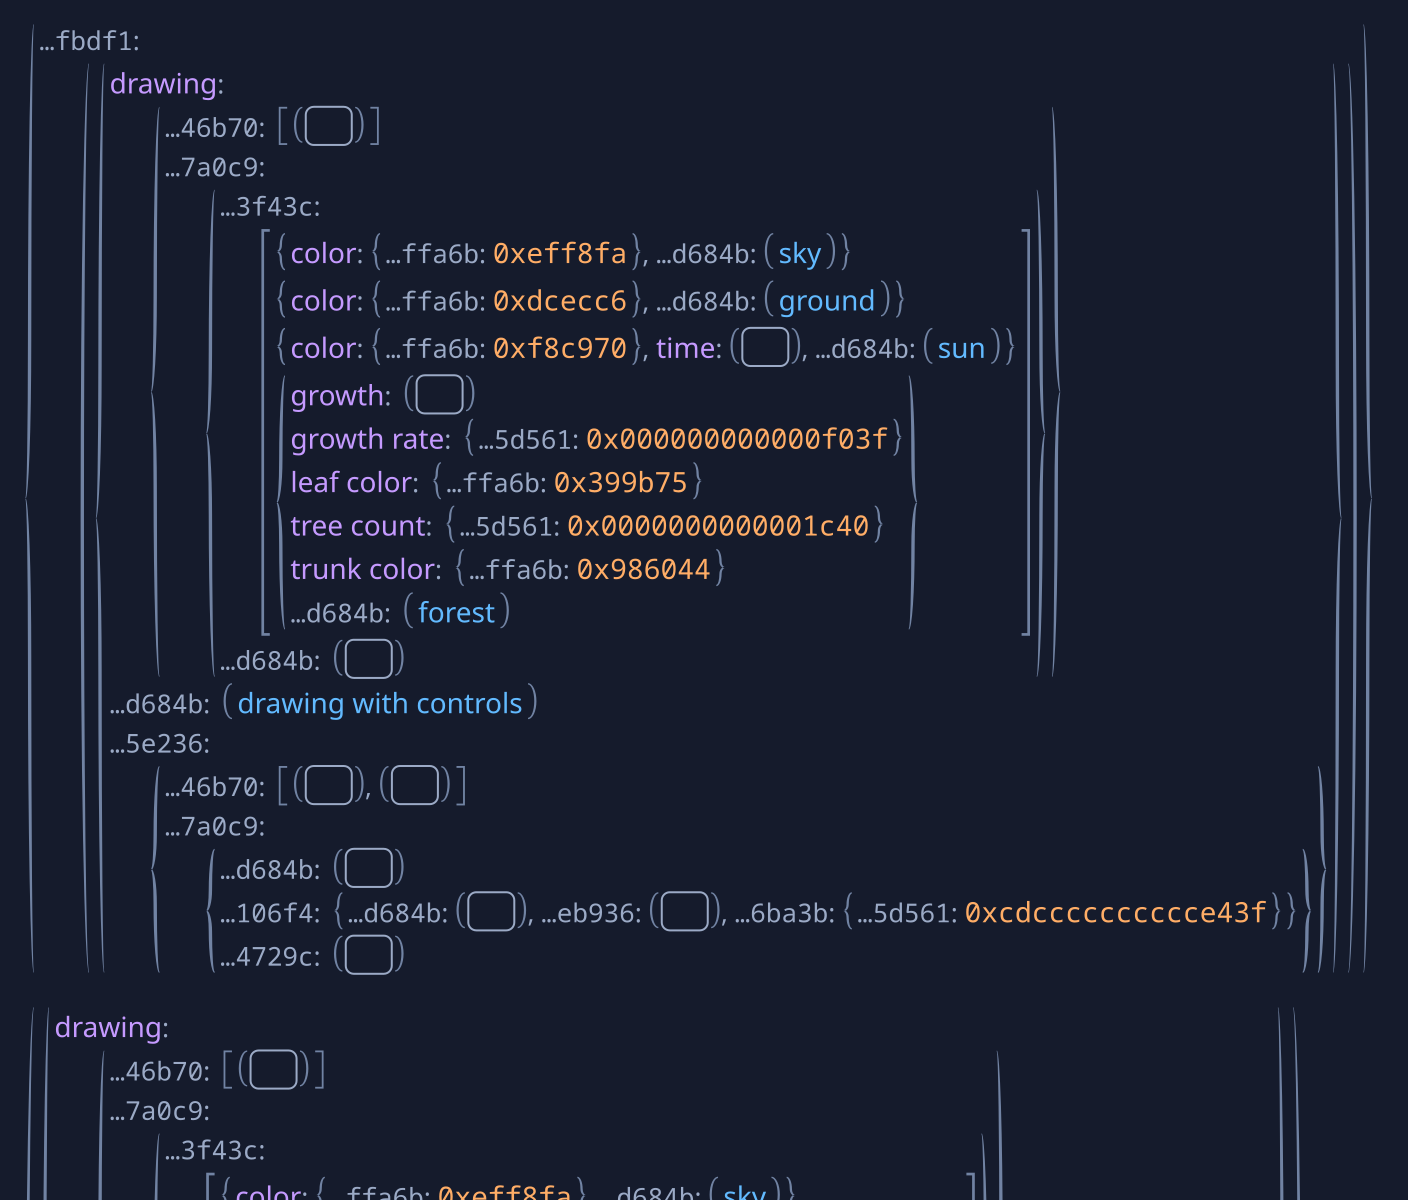
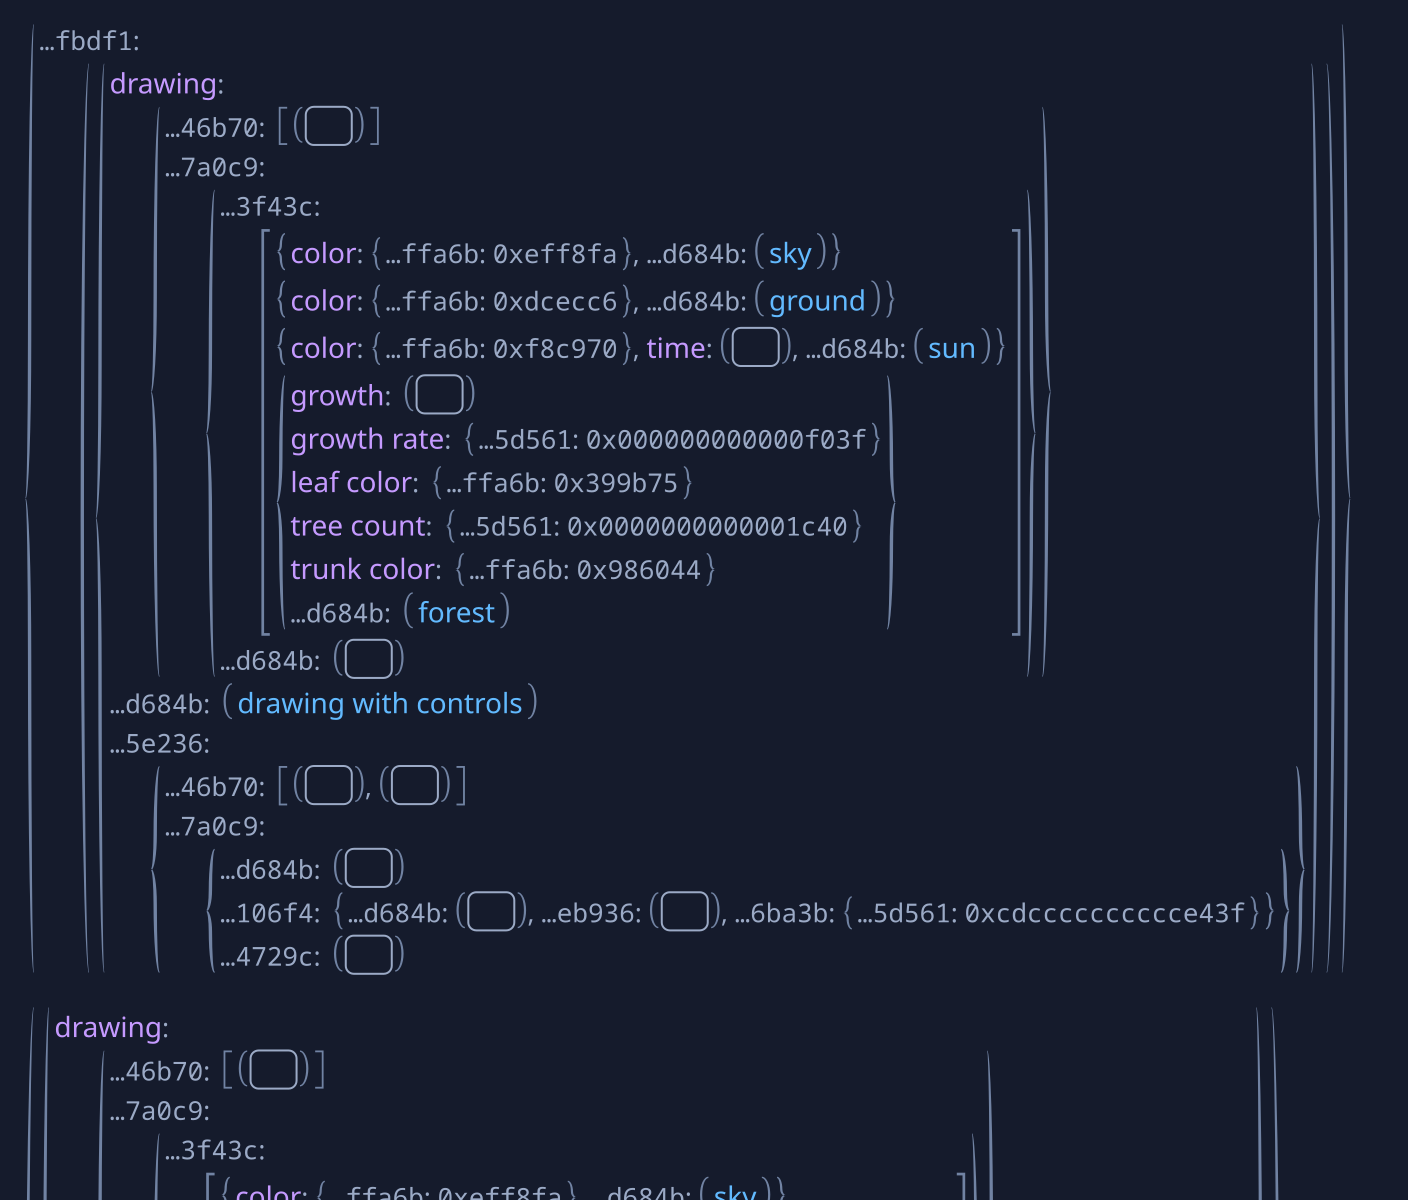
Load only the nine libraries the forest uses
Rendering the forest without each of its fifteen libraries changed
nothing for name, text, blob, number, list, or logic, so the home page
and Peel the forest now load absent, color, control, f64, grap, layout,
presentation, sequence, and controls, and their captions name just those.
Peeling every layer leaves no libraries at all, which the structure still
now shows too. Teach the editor to see no longer adds list and logic.

diff --git a/website/public/index.html b/website/public/index.html
@@ -79,7 +79,7 @@
         <h2 id="peel-title">Take a program apart</h2>
         <p>This forest is a program. Drag its slider to grow it, or hold <kbd data-command-key>Ctrl</kbd> and click a tree to find the code that drew it. Then switch the libraries off, one layer at a time, until you’re looking at what’s stored.</p>
         <div class="live">
-          <div class="editor-example" id="peel-editor"><iframe data-src="./editor/?document=../lessons/growing-forest.gid&amp;menu=hidden&amp;wheel=auto&amp;threads=1&amp;tutorial-slots=f717b766d250a7b86c5eb842885c4417,9940ece27410c72a5308a544890ccc71&amp;libraries=3209ad5d23a0c8513f6bd76324a5cf60,eaaf309c36a65d2811083944da29aec9,4ab5da466a7c5f1202f5ef862f5ff915,873c68ac371dbbb98a4f198546d60241,25d0e2034b4bd65bebb4811d65eab89c,ec17915df2d42377574dc90f22500fe2,c46d010325d3a1ec0f2a84dd3a9570ae,1fdb573a2c56a7063546c195318214bc,f7735b90f6826b25c350a8fd83af8c47,fb2a4dac87512d69448650bc0e29dc80,d22b834154d60b1df228f9bb4d3c13de,7b0fa421250c1b5c8a78a3a95b172cb6,f76a2ef341541a5c955fc23094e2df52,0ad8124ba821acd5fbf2c868371e1492,666ba40b81028e32c78bdc1665d6c3a9" title="The growing forest, drawn by libraries you can switch off" loading="lazy"></iframe><div class="editor-actions"><button type="button" class="reset" aria-label="Reset the forest">Reset <span aria-hidden="true">↺</span></button></div><span class="reset-status visually-hidden" role="status"></span></div>
+          <div class="editor-example" id="peel-editor"><iframe data-src="./editor/?document=../lessons/growing-forest.gid&amp;menu=hidden&amp;wheel=auto&amp;threads=1&amp;tutorial-slots=f717b766d250a7b86c5eb842885c4417,9940ece27410c72a5308a544890ccc71&amp;libraries=873c68ac371dbbb98a4f198546d60241,25d0e2034b4bd65bebb4811d65eab89c,ec17915df2d42377574dc90f22500fe2,1fdb573a2c56a7063546c195318214bc,f7735b90f6826b25c350a8fd83af8c47,fb2a4dac87512d69448650bc0e29dc80,d22b834154d60b1df228f9bb4d3c13de,0ad8124ba821acd5fbf2c868371e1492,666ba40b81028e32c78bdc1665d6c3a9" title="The growing forest, drawn by libraries you can switch off" loading="lazy"></iframe><div class="editor-actions"><button type="button" class="reset" aria-label="Reset the forest">Reset <span aria-hidden="true">↺</span></button></div><span class="reset-status visually-hidden" role="status"></span></div>
           <div class="peel-controls"><label class="peel-slider">Peel <input type="range" id="peel-depth" min="0" value="0" step="1"></label><div id="peel-layers" class="peel-layers"></div></div>
           <p id="peel-caption" class="peel-caption" aria-live="polite"></p>
         </div>
@@ -95,14 +95,14 @@
         </script>
         <div class="still" role="group" aria-label="The forest and its stored structure">
           <figure>
-            <img class="light-only" src="images/forest-light.png" alt="The forest and its slider, drawn with fifteen libraries, above the start of its program." width="704" height="600" />
-            <img class="dark-only" src="images/forest-dark.png" alt="The forest and its slider, drawn with fifteen libraries, above the start of its program." width="704" height="600" />
-            <figcaption>Drawn with the name, text, blob, absent, color, control, number, f64, grap, layout, presentation, list, logic, sequence, and controls libraries.</figcaption>
+            <img class="light-only" src="images/forest-light.png" alt="The forest and its slider, drawn with nine libraries, above the start of its program." width="704" height="600" />
+            <img class="dark-only" src="images/forest-dark.png" alt="The forest and its slider, drawn with nine libraries, above the start of its program." width="704" height="600" />
+            <figcaption>Drawn with the absent, color, control, f64, grap, layout, presentation, sequence, and controls libraries.</figcaption>
           </figure>
           <figure>
-            <img class="light-only" src="images/structure-light.png" alt="The same document with the libraries off: records, lists, bytes, and cells, with names only where the document defines them." width="704" height="600" />
-            <img class="dark-only" src="images/structure-dark.png" alt="The same document with the libraries off: records, lists, bytes, and cells, with names only where the document defines them." width="704" height="600" />
-            <figcaption>The same document with only the name, text, and blob libraries. On a laptop, this is a live editor you can take apart yourself.</figcaption>
+            <img class="light-only" src="images/structure-light.png" alt="The same document with no libraries: records, lists, bytes, and cells, with names only where the document defines them." width="704" height="600" />
+            <img class="dark-only" src="images/structure-dark.png" alt="The same document with no libraries: records, lists, bytes, and cells, with names only where the document defines them." width="704" height="600" />
+            <figcaption>The same document with no libraries loaded. On a laptop, this is a live editor you can take apart yourself.</figcaption>
           </figure>
         </div>
       </section>

diff --git a/website/public/peel.js b/website/public/peel.js
@@ -18,22 +18,20 @@ const layers = [
   {
     id: "calculations",
     label: "Calculations",
-    names: "grap, control, list, sequence, logic, absent",
-    libraries: ["f7735b90f6826b25c350a8fd83af8c47", "ec17915df2d42377574dc90f22500fe2", "7b0fa421250c1b5c8a78a3a95b172cb6", "0ad8124ba821acd5fbf2c868371e1492", "f76a2ef341541a5c955fc23094e2df52", "873c68ac371dbbb98a4f198546d60241"],
+    names: "grap, control, sequence, absent",
+    libraries: ["f7735b90f6826b25c350a8fd83af8c47", "ec17915df2d42377574dc90f22500fe2", "0ad8124ba821acd5fbf2c868371e1492", "873c68ac371dbbb98a4f198546d60241"],
     off: "Grap, the language, is a library. Without it, the editor doesn't know that a record with a <code>function</code> key is a call, or that a record with <code>params</code> and a <code>body</code> is a function. Everything is still here, as plain records. Names in parentheses, like <code>(forest)</code>, are functions this document defines; short codes like <code>…d684b</code> are keys owned by libraries that aren't loaded anymore, such as Grap's own <code>function</code> key.",
   },
   {
     id: "numbers",
     label: "Numbers",
-    names: "number, f64",
-    libraries: ["c46d010325d3a1ec0f2a84dd3a9570ae", "1fdb573a2c56a7063546c195318214bc"],
+    names: "f64",
+    libraries: ["1fdb573a2c56a7063546c195318214bc"],
     off: "Numbers were the f64 library reading eight bytes under its key. The little <strong>f64</strong> was its signature; without it, <code>7<sub class=\"tag\">f64</sub></code> is <code>{…5d561: 0x0000000000001c40}</code>, the eight bytes of 7.0, least significant first.",
   },
 ];
-// Libraries this page never peels: names, text, and hex editing.
-const base = ["3209ad5d23a0c8513f6bd76324a5cf60", "eaaf309c36a65d2811083944da29aec9", "4ab5da466a7c5f1202f5ef862f5ff915"];
 
-const allOn = (count) => `All ${count} of this editor's libraries are on: name, text, and blob, which always stay on, plus the layers above. Each mark on the screen, from the trees to the little <strong>f64</strong> tags, is drawn by one of them. Move the slider, or switch layers off one at a time.`;
+const allOn = (count) => `All ${count} of this editor's libraries are on, grouped into the layers above. Each mark on the screen, from the trees to the little <strong>f64</strong> tags, is drawn by one of them. Move the slider, or switch layers off one at a time.`;
 const allOff = "This is what's actually stored: records <code>{ }</code>, lists <code>[ ]</code>, bytes <code>0x…</code>, and cells <code>( )</code>, plus the names this document gave its own cells. Every library you switched off only changed how it's drawn. Switch them back on, in any order.";
 
 const editor = document.querySelector("#peel-editor iframe");
@@ -67,7 +65,7 @@ slider.addEventListener("input", () => {
 
 function apply(changed) {
   const on = layers.filter((layer) => boxes.get(layer.id).checked);
-  const enabled = new Set([...base, ...on.flatMap((layer) => layer.libraries)]);
+  const enabled = new Set(on.flatMap((layer) => layer.libraries));
   const libraries = order.filter((id) => enabled.has(id));
   editor.contentWindow?.postMessage({ type: "progred:libraries", libraries: libraries.join(",") }, location.origin);
   // The slider follows the checkboxes when they peel in order.

diff --git a/website/public/lab/see.html b/website/public/lab/see.html
@@ -92,8 +92,8 @@
 <p class="aside"><strong>Try:</strong> hold <kbd data-command-key>Ctrl</kbd> and click a tree. You land in the code that drew it.</p>
 </section>
 <section class="exercise" id="see-controls" aria-labelledby="see-controls-title"><h2 id="see-controls-title">Lesson 7: controls</h2>
-<p>A few more libraries (lists, sequences, logic, presentation, and controls) and the editor can see the whole forest: a slider feeding a program that plants and grows trees. Same four kinds of value underneath.</p>
-<div class="editor-example"><iframe src="../editor/?document=../lessons/growing-forest.gid&amp;menu=hidden&amp;wheel=auto&amp;threads=1&amp;tutorial-slots=f717b766d250a7b86c5eb842885c4417,9940ece27410c72a5308a544890ccc71&amp;libraries=3209ad5d23a0c8513f6bd76324a5cf60,eaaf309c36a65d2811083944da29aec9,4ab5da466a7c5f1202f5ef862f5ff915,873c68ac371dbbb98a4f198546d60241,25d0e2034b4bd65bebb4811d65eab89c,ec17915df2d42377574dc90f22500fe2,c46d010325d3a1ec0f2a84dd3a9570ae,1fdb573a2c56a7063546c195318214bc,f7735b90f6826b25c350a8fd83af8c47,fb2a4dac87512d69448650bc0e29dc80,d22b834154d60b1df228f9bb4d3c13de,7b0fa421250c1b5c8a78a3a95b172cb6,f76a2ef341541a5c955fc23094e2df52,0ad8124ba821acd5fbf2c868371e1492,666ba40b81028e32c78bdc1665d6c3a9" title="The growing forest with fifteen libraries loaded" loading="lazy" style="height:40rem"></iframe><div class="editor-actions"><button type="button" class="reset" aria-label="Reset this editor">Reset <span aria-hidden="true">↺</span></button></div><span class="reset-status visually-hidden" role="status"></span></div>
+<p>A few more libraries (sequence, presentation, and controls) and the editor can see the whole forest: a slider feeding a program that plants and grows trees. Same four kinds of value underneath.</p>
+<div class="editor-example"><iframe src="../editor/?document=../lessons/growing-forest.gid&amp;menu=hidden&amp;wheel=auto&amp;threads=1&amp;tutorial-slots=f717b766d250a7b86c5eb842885c4417,9940ece27410c72a5308a544890ccc71&amp;libraries=3209ad5d23a0c8513f6bd76324a5cf60,eaaf309c36a65d2811083944da29aec9,4ab5da466a7c5f1202f5ef862f5ff915,873c68ac371dbbb98a4f198546d60241,25d0e2034b4bd65bebb4811d65eab89c,ec17915df2d42377574dc90f22500fe2,c46d010325d3a1ec0f2a84dd3a9570ae,1fdb573a2c56a7063546c195318214bc,f7735b90f6826b25c350a8fd83af8c47,fb2a4dac87512d69448650bc0e29dc80,d22b834154d60b1df228f9bb4d3c13de,0ad8124ba821acd5fbf2c868371e1492,666ba40b81028e32c78bdc1665d6c3a9" title="The growing forest with thirteen libraries loaded" loading="lazy" style="height:40rem"></iframe><div class="editor-actions"><button type="button" class="reset" aria-label="Reset this editor">Reset <span aria-hidden="true">↺</span></button></div><span class="reset-status visually-hidden" role="status"></span></div>
 </section>
 <section class="exercise" id="see-yourself" aria-labelledby="see-yourself-title"><h2 id="see-yourself-title">Lesson 8: teach it something yourself</h2>
 <p>Libraries aren’t magic. A view is a function from a value to a drawing, and you can write one in Grap and keep it in the same document as your data. Here’s a planet, a view that draws planets, and the planet drawn by that view.</p>

diff --git a/website/public/lab/peel.html b/website/public/lab/peel.html
@@ -61,7 +61,7 @@
 <section class="exercise" id="peel" aria-label="Opening">
 <p class="lede"><strong>Progred is an editor where a program isn’t text.</strong> It’s structure: records, lists, bytes, and cells, stored as they are. Everything you see is a drawing of that structure, made by libraries. That one decision changes a lot, and this page takes it apart.</p>
 <p class="lede">This forest is a program. Drag its slider to grow it; hold <kbd data-command-key>Ctrl</kbd> and click a tree to find the code that drew it. Then take the libraries away, one layer at a time, and watch what’s underneath.</p>
-<div class="editor-example" id="peel-editor"><iframe src="../editor/?document=../lessons/growing-forest.gid&amp;menu=hidden&amp;wheel=auto&amp;threads=1&amp;tutorial-slots=f717b766d250a7b86c5eb842885c4417,9940ece27410c72a5308a544890ccc71&amp;libraries=3209ad5d23a0c8513f6bd76324a5cf60,eaaf309c36a65d2811083944da29aec9,4ab5da466a7c5f1202f5ef862f5ff915,873c68ac371dbbb98a4f198546d60241,25d0e2034b4bd65bebb4811d65eab89c,ec17915df2d42377574dc90f22500fe2,c46d010325d3a1ec0f2a84dd3a9570ae,1fdb573a2c56a7063546c195318214bc,f7735b90f6826b25c350a8fd83af8c47,fb2a4dac87512d69448650bc0e29dc80,d22b834154d60b1df228f9bb4d3c13de,7b0fa421250c1b5c8a78a3a95b172cb6,f76a2ef341541a5c955fc23094e2df52,0ad8124ba821acd5fbf2c868371e1492,666ba40b81028e32c78bdc1665d6c3a9" title="The growing forest, drawn by libraries you can switch off" loading="lazy" style="height:38rem"></iframe><div class="editor-actions"><button type="button" class="reset" aria-label="Reset this editor">Reset <span aria-hidden="true">↺</span></button></div><span class="reset-status visually-hidden" role="status"></span></div>
+<div class="editor-example" id="peel-editor"><iframe src="../editor/?document=../lessons/growing-forest.gid&amp;menu=hidden&amp;wheel=auto&amp;threads=1&amp;tutorial-slots=f717b766d250a7b86c5eb842885c4417,9940ece27410c72a5308a544890ccc71&amp;libraries=873c68ac371dbbb98a4f198546d60241,25d0e2034b4bd65bebb4811d65eab89c,ec17915df2d42377574dc90f22500fe2,1fdb573a2c56a7063546c195318214bc,f7735b90f6826b25c350a8fd83af8c47,fb2a4dac87512d69448650bc0e29dc80,d22b834154d60b1df228f9bb4d3c13de,0ad8124ba821acd5fbf2c868371e1492,666ba40b81028e32c78bdc1665d6c3a9" title="The growing forest, drawn by libraries you can switch off" loading="lazy" style="height:38rem"></iframe><div class="editor-actions"><button type="button" class="reset" aria-label="Reset this editor">Reset <span aria-hidden="true">↺</span></button></div><span class="reset-status visually-hidden" role="status"></span></div>
 <div class="peel-controls"><label class="peel-slider">Peel <input type="range" id="peel-depth" min="0" value="0" step="1"></label><div id="peel-layers" class="peel-layers"></div></div>
 <p id="peel-caption" class="peel-caption" aria-live="polite"></p>
 <p class="aside"><strong>Try:</strong> before you peel, click the <strong>7</strong><sub class="tag">f64</sub> after <em>tree count</em>. Then peel all the way down. It stays selected the whole time, while its drawing changes from 7<sub class="tag">f64</sub> to eight bytes.</p>

diff --git a/progred/src/projection/tests/frame/svg.rs b/progred/src/projection/tests/frame/svg.rs
@@ -1710,36 +1710,52 @@ fn svg_bench_renders_a_pending_edge() {
 }
 
 /// The home page shows these on narrow screens instead of loading the editor:
-/// the forest drawn by every library, and the same document with only names,
-/// text, and bytes.
+/// the forest drawn with the nine libraries it uses, and the same document
+/// with none.
 #[test]
 #[ignore = "regenerates the website home page's forest stills"]
 fn website_home_stills() {
-    use crate::libraries::{blob, name, text};
+    use crate::libraries::{
+        absent, color, control, controls, f64, grap, layout, presentation, sequence,
+    };
+    let (doc, fields) = crate::gid_text::parse(include_str!(
+        "../../../../../website/public/lessons/growing-forest.gid"
+    ))
+    .unwrap();
+    let forest = [
+        absent::ID,
+        color::ID,
+        control::ID,
+        f64::ID,
+        grap::ID,
+        layout::ID,
+        presentation::ID,
+        sequence::ID,
+        controls::ID,
+    ];
     for (theme_name, theme) in [
         ("light", crate::styles::Theme::Light),
         ("dark", crate::styles::Theme::Dark),
     ] {
-        let (mut editor, fields) = website_growing_forest_editor();
-        editor.palette = theme.palette();
-        render_editor(
-            editor,
-            kurbo::Size::new(704.0, 600.0),
-            &format!("home_forest_{theme_name}.svg"),
-        );
-        let (mut editor, _) = website_growing_forest_editor();
-        editor.stack = crate::stack::load_selected(&[name::ID, text::ID, blob::ID]).unwrap();
-        editor.stack.projection = crate::web_embed::tutorial_slots(
-            Some(&format!("{},{}", fields["second"], fields["first"])),
-            editor.stack.projection,
-            &editor.stack.libraries,
-        )
-        .unwrap();
-        editor.palette = theme.palette();
-        render_editor(
-            editor,
-            kurbo::Size::new(704.0, 600.0),
-            &format!("home_structure_{theme_name}.svg"),
-        );
+        for (still, libraries) in [("forest", &forest[..]), ("structure", &[][..])] {
+            let mut editor = crate::test_editor_with_stack(
+                doc.clone(),
+                crate::stack::load_selected(libraries).unwrap(),
+            );
+            editor.stack.projection = crate::web_embed::tutorial_slots(
+                Some(&format!("{},{}", fields["second"], fields["first"])),
+                editor.stack.projection,
+                &editor.stack.libraries,
+            )
+            .unwrap();
+            editor.font_cx = crate::fonts::bundled_font_context();
+            editor.palette = theme.palette();
+            editor.drawn_menu = false;
+            render_editor(
+                editor,
+                kurbo::Size::new(704.0, 600.0),
+                &format!("home_{still}_{theme_name}.svg"),
+            );
+        }
     }
 }
